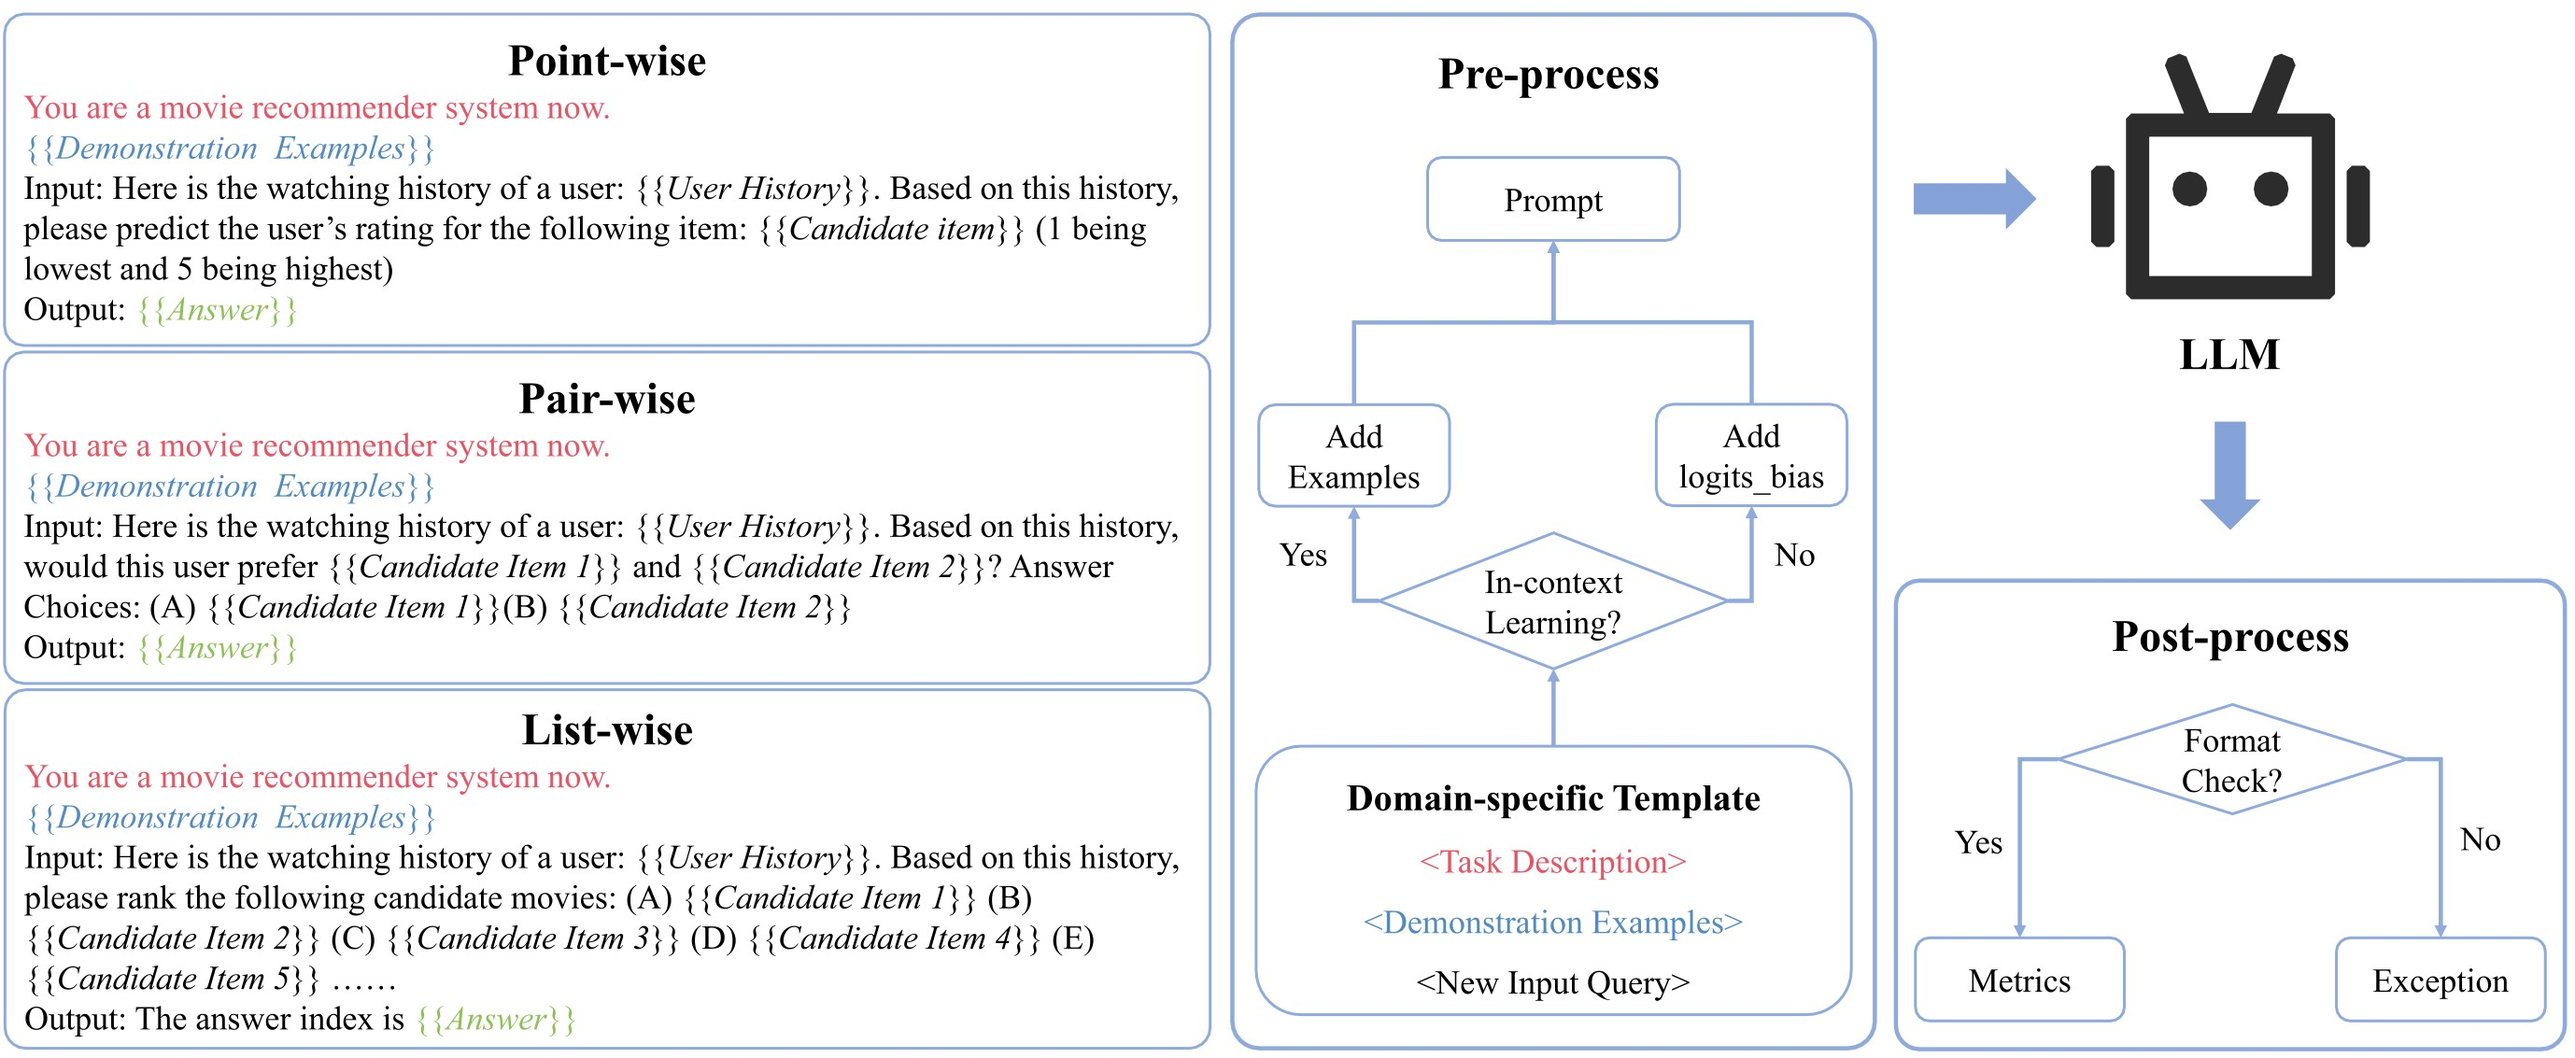
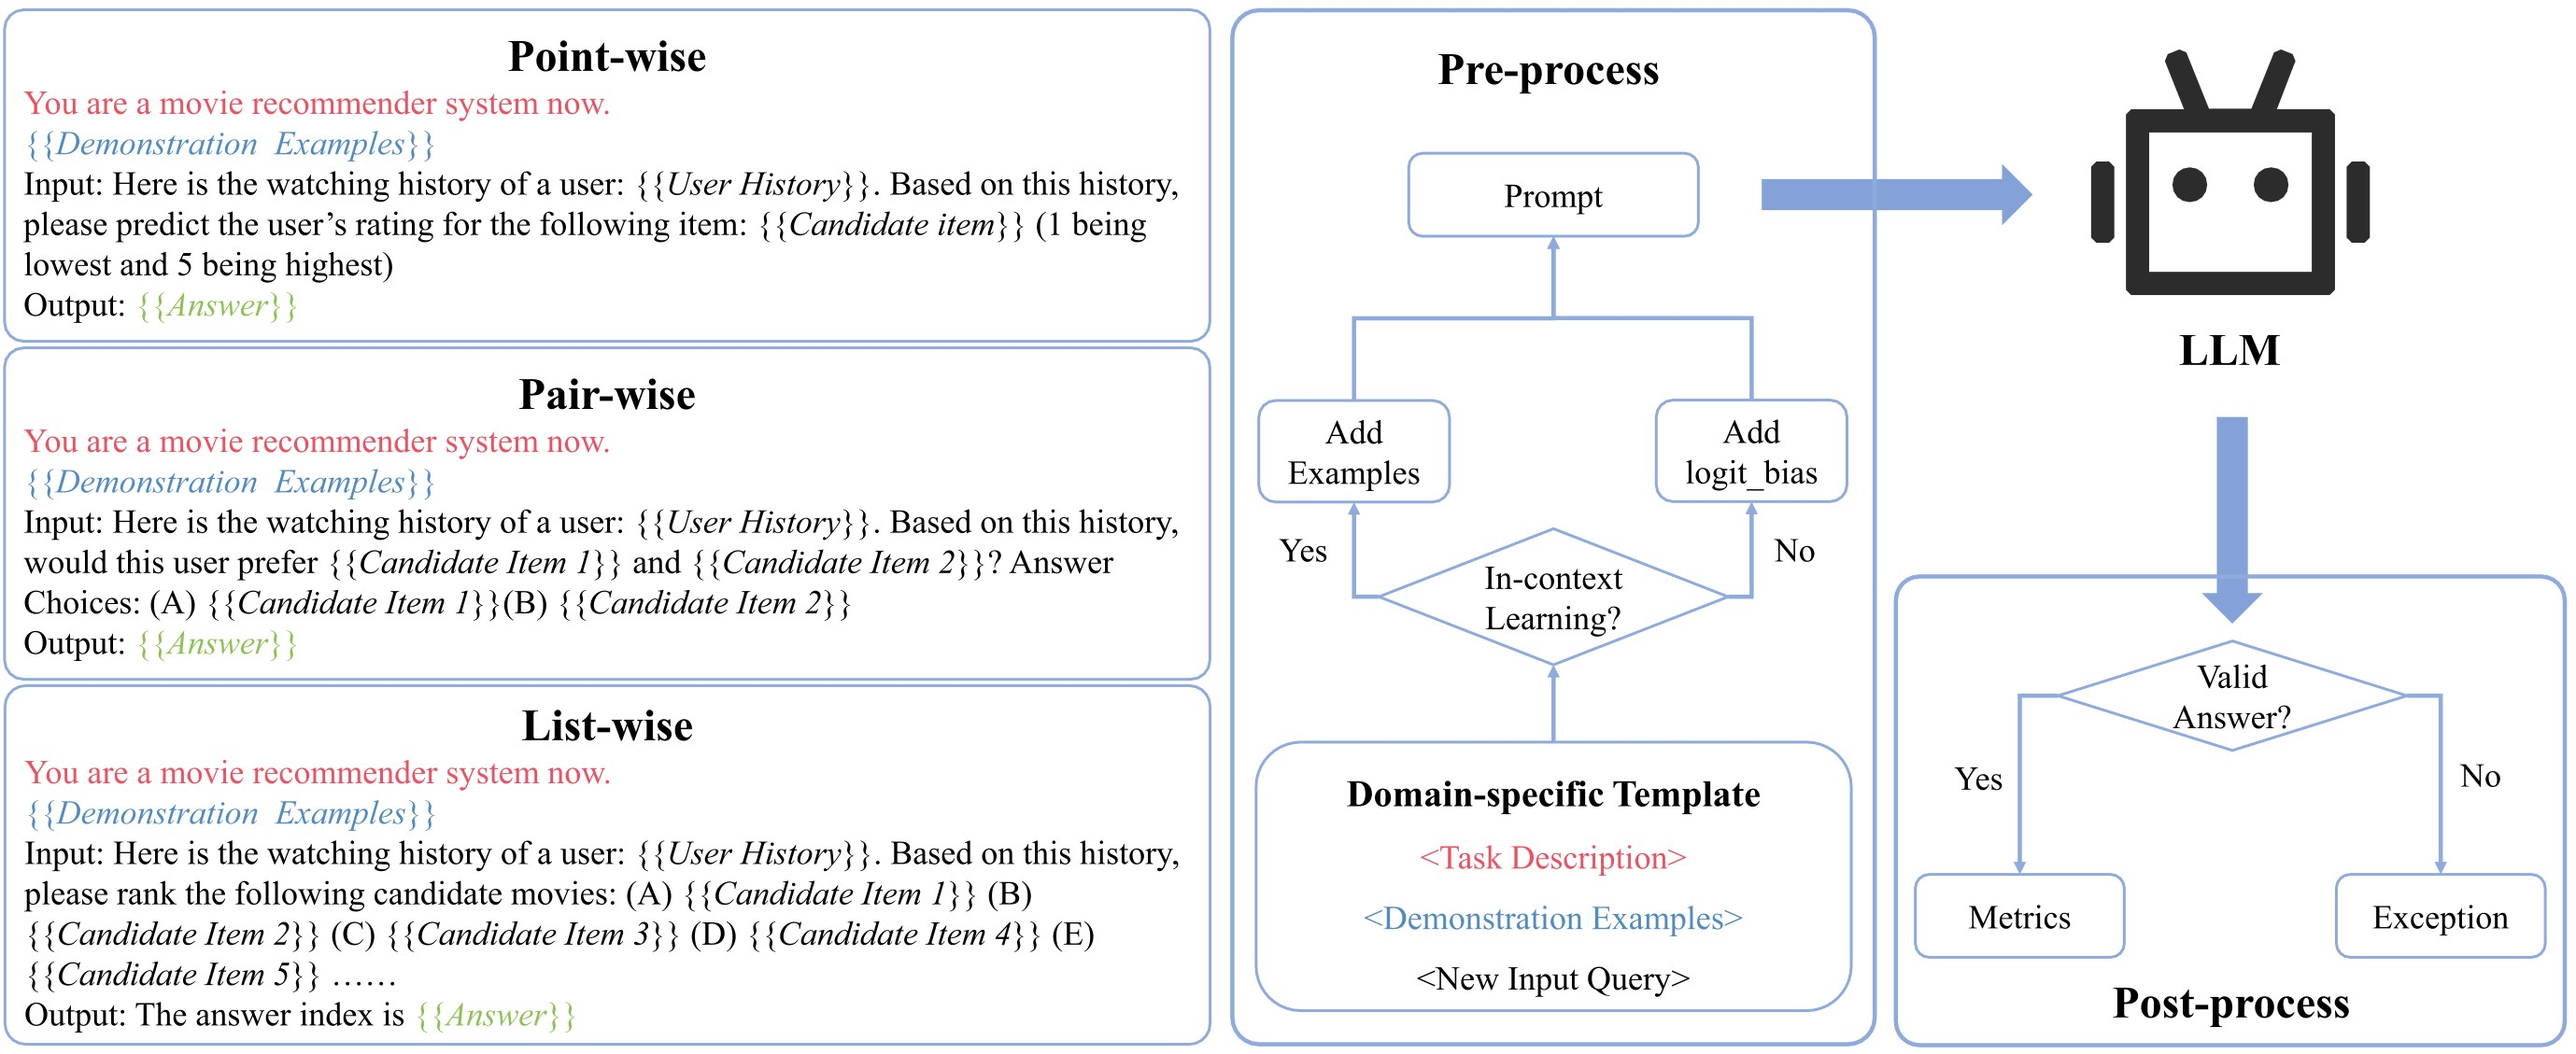
M: modify the figure and readme

diff --git a/readme.md b/readme.md
@@ -61,8 +61,10 @@ For details of prompts, please check file `assests/appendix.pdf`.
 
 # Example
 
-```python
-cd xxxxx
+```shell
+git clone https://github.com/rainym00d/LLM4RS.git
+
+cd LLM4RS
 
 # * You should fill in your own api-key in script/run.py before run this command.
 python script/run.py 
